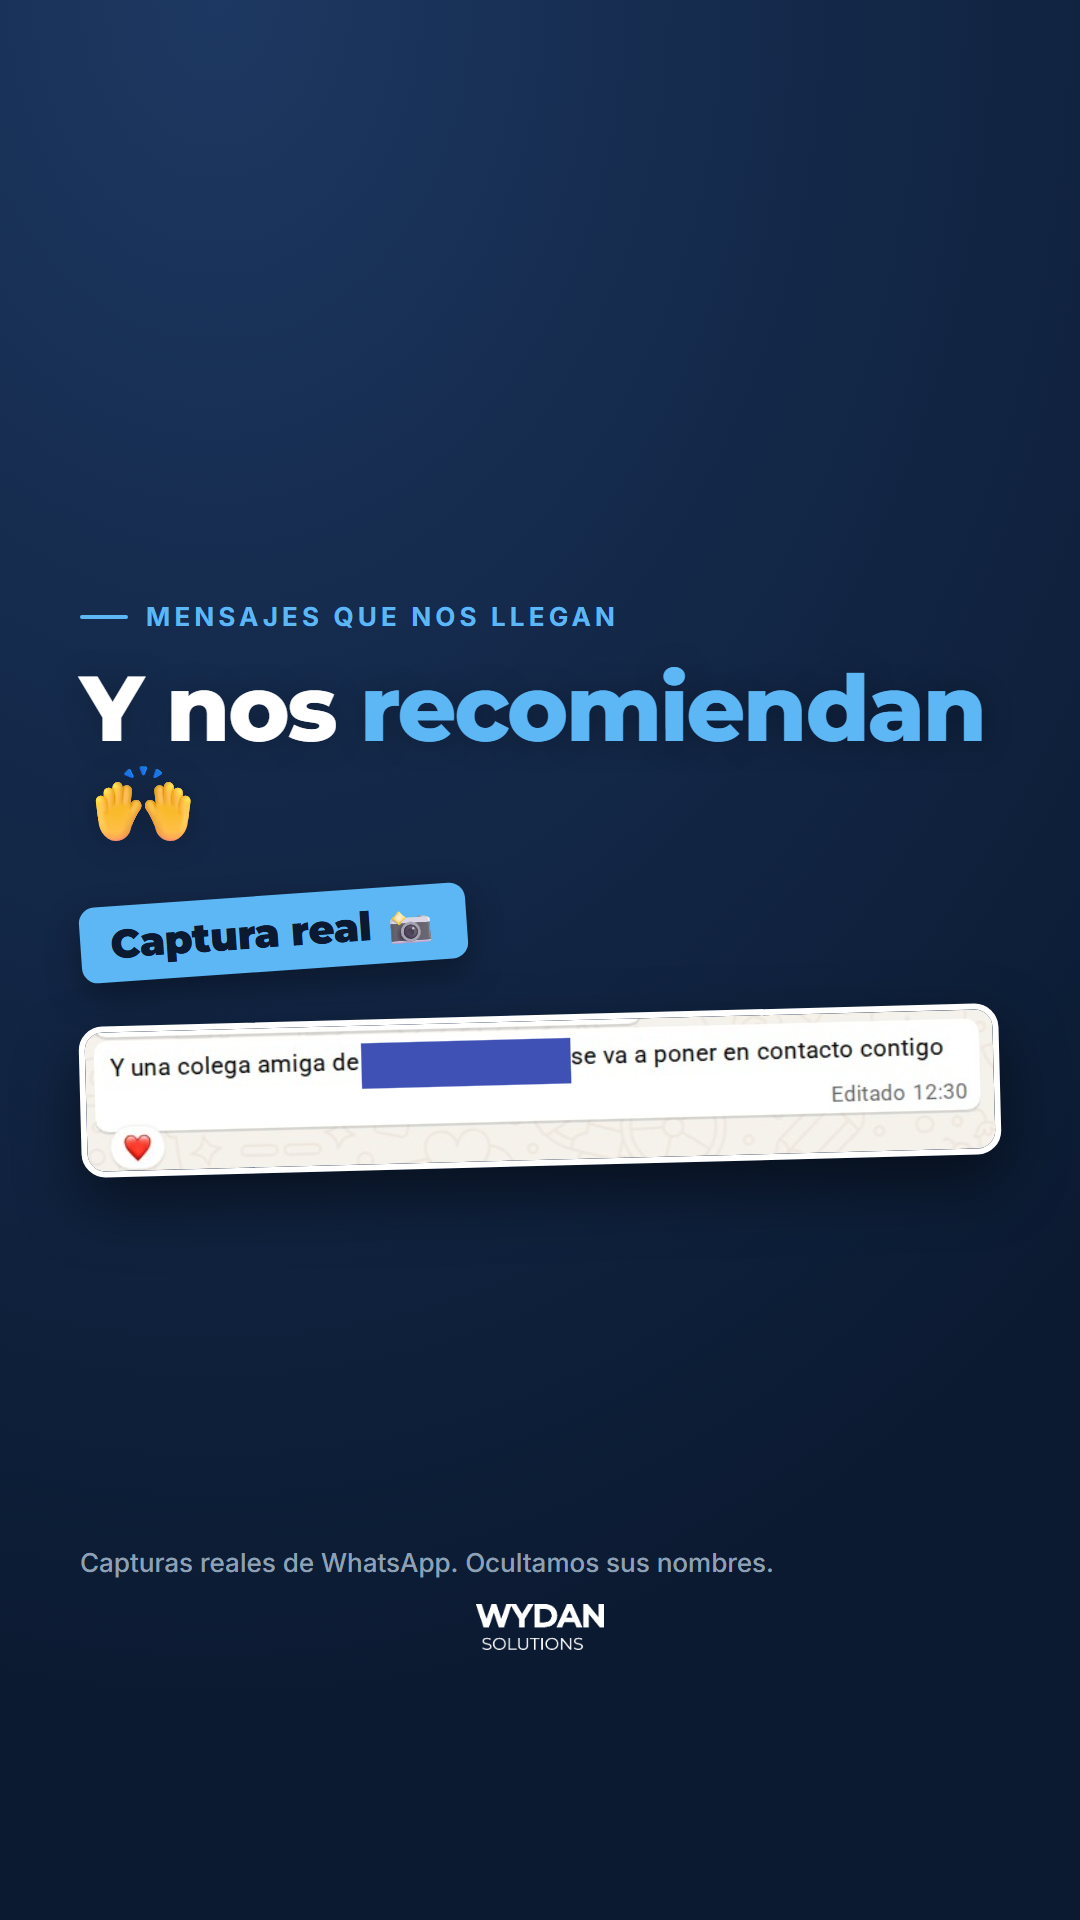
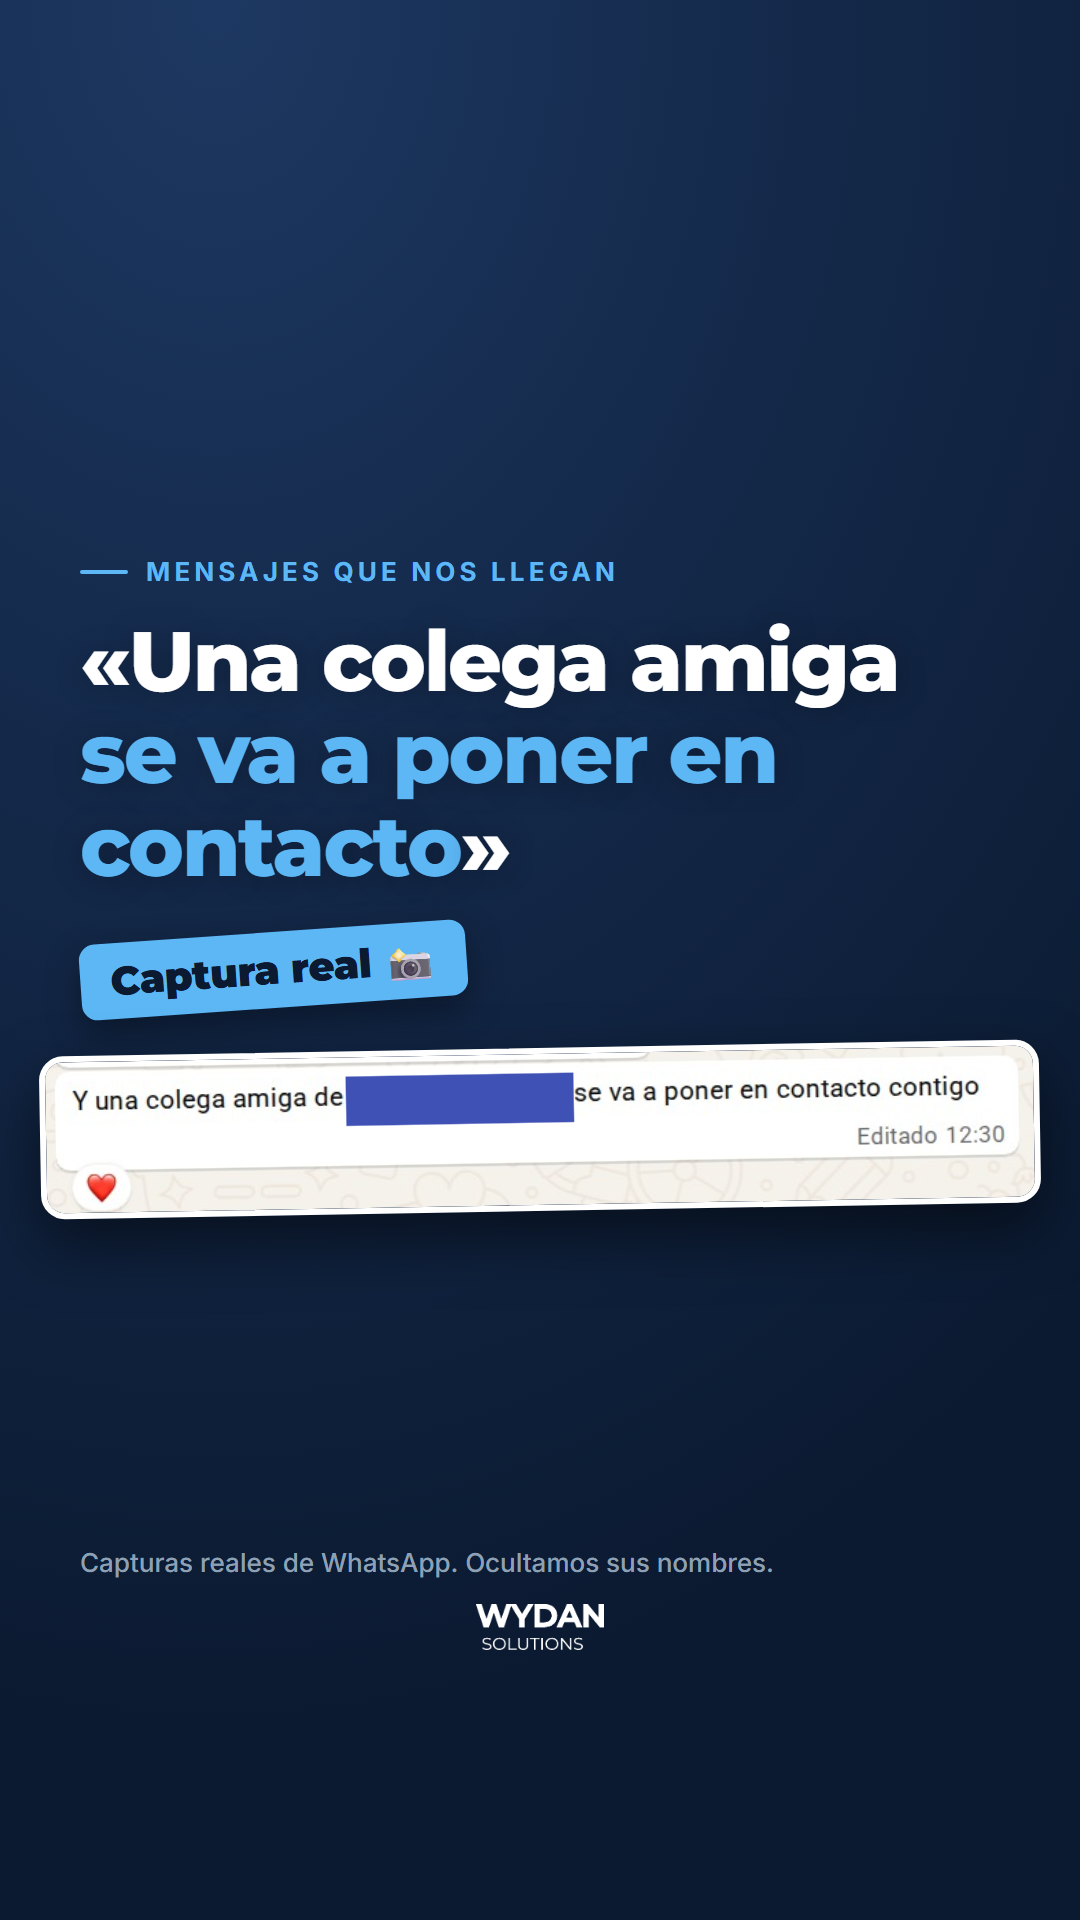
Clientes: la frase del cliente en grande y capturas más grandes

Changed region(s): [[0.0306, 0.2812, 0.9778, 0.6562]]

diff --git a/publicaciones.js b/publicaciones.js
@@ -299,11 +299,11 @@ const HISTORIAS = {
     // Capturas originales de WhatsApp de clientes (23/9 al 29/10/2026), recortadas a SOLO los globos del cliente en
     // img/capturas/ (sin nombres; el pueblo de la colega tapado en azul). Las capturas enteras no se guardan acá.
     // w = ancho del recorte en px (se agranda hasta el doble, sin pasar de 920).
-    { tipo: 'h-capturas', chip: 'Mensajes que nos llegan', titulo: 'La usan <em>todos los días</em>', capturas: [{ id: 'gracias', w: 735 }, { id: 'todos-dias', w: 450 }] },
-    { tipo: 'h-capturas', chip: 'Mensajes que nos llegan', titulo: 'Todo <em>en un solo lugar</em>', capturas: [{ id: 'muy-bueno', w: 520 }, { id: 'vencimiento', w: 725 }] },
-    { tipo: 'h-capturas', chip: 'Mensajes que nos llegan', titulo: 'Su negocio, <em>esté donde esté</em>', capturas: [{ id: 'fuera', w: 725 }] },
-    { tipo: 'h-capturas', chip: 'Mensajes que nos llegan', titulo: 'Cuando reciben <em>su página</em>', capturas: [{ id: 'feliz', w: 380 }, { id: 'perfecto', w: 440 }] },
-    { tipo: 'h-capturas', chip: 'Mensajes que nos llegan', titulo: 'Y nos <em>recomiendan</em> 🙌', capturas: [{ id: 'colega', w: 720 }] },
+    { tipo: 'h-capturas', chip: 'Mensajes que nos llegan', titulo: '«Lo uso <em>a diario y a cada rato</em>»', capturas: [{ id: 'gracias', w: 735 }, { id: 'todos-dias', w: 450 }] },
+    { tipo: 'h-capturas', chip: 'Mensajes que nos llegan', titulo: '«Todo lo q necesito <em>en 1 solo</em>»', capturas: [{ id: 'muy-bueno', w: 520 }, { id: 'vencimiento', w: 725 }] },
+    { tipo: 'h-capturas', chip: 'Mensajes que nos llegan', titulo: '«Tener toda la información ahí <em>me salvó</em>»', capturas: [{ id: 'fuera', w: 725 }] },
+    { tipo: 'h-capturas', chip: 'Mensajes que nos llegan', titulo: '«Muchas gracias, <em>quedó perfecto!!!</em>»', capturas: [{ id: 'feliz', w: 380 }, { id: 'perfecto', w: 440 }] },
+    { tipo: 'h-capturas', chip: 'Mensajes que nos llegan', titulo: '«Una colega amiga <em>se va a poner en contacto</em>»', capturas: [{ id: 'colega', w: 720 }] },
     { tipo: 'h-testimonio', rubro: 'Taller de camiones', ciudad: 'Rivera',
       texto: 'Desde que comenzamos a utilizar el aplicativo, la forma de gestionar el taller ha mejorado muchísimo. […] Estamos muy conformes y contentos con el resultado. […] Sin dudas, recomendamos esta herramienta.' },
     { tipo: 'h-testimonio', rubro: 'Estudio Contable W. Machado', ciudad: 'Rivera',

diff --git a/index.html b/index.html
@@ -195,7 +195,7 @@ Tu negocio ordenado en una página hecha para vos
   <div id="publicaciones"></div>
 </div>
 
-<script src="publicaciones.js?v=202610291925"></script>
+<script src="publicaciones.js?v=202610291943"></script>
 <script>
   const VIDEOS = 'videos/';
   const carpeta = p => `imagenes/${String(p.n).padStart(2, '0')}-${p.id}/`;
